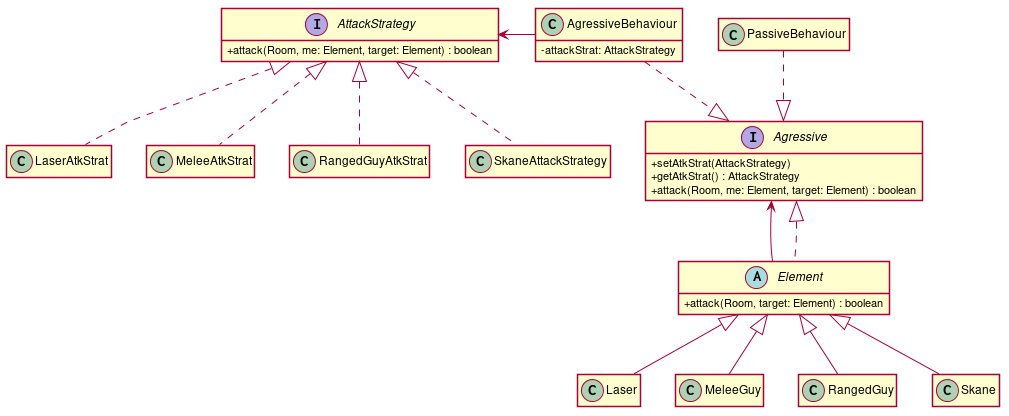
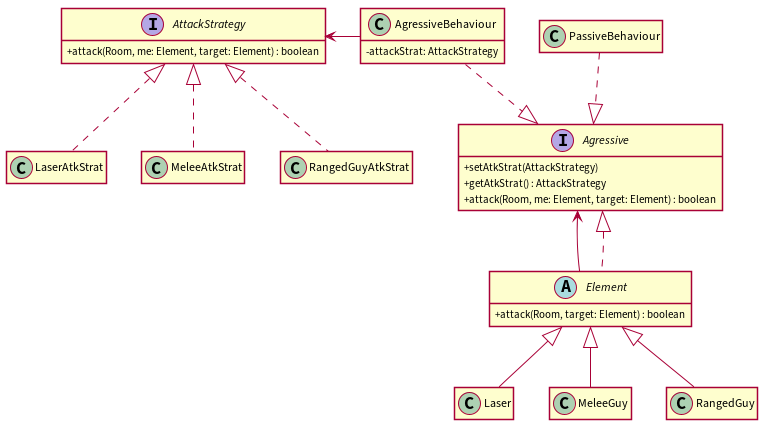
Fixed typos and improved some language on the report.

diff --git a/docs/README.md b/docs/README.md
@@ -526,7 +526,6 @@ project files:
 - [LaserAtkStrat](/src/main/java/org/g73/skanedweller/controller/attack_strategy/LaserAtkStrat.java)
 - [MeleeAtkStrat](/src/main/java/org/g73/skanedweller/controller/attack_strategy/MeleeAtkStrat.java)
 - [RangedGuyAtkStrat](/src/main/java/org/g73/skanedweller/controller/attack_strategy/RangedGuyAtkStrat.java)
-- [SkaneAttackStrategy](/src/main/java/org/g73/skanedweller/controller/attack_strategy/SkaneAttackStrategy.java)
 
 - [Agressive](/src/main/java/org/g73/skanedweller/model/element/element_behaviours/Agressive.java)
 - [AgressiveBehaviour](/src/main/java/org/g73/skanedweller/model/element/element_behaviours/AgressiveBehaviour.java)
@@ -542,9 +541,15 @@ project files:
 
 Implementing this pattern made it possible to have ranged attacks in our game
 and helped us separate the responsibilities of attacking and colliding.  
-The only downside of our implementation is that instantiating an object can
-be a bit more cumbersome, since we need to give it an attack strategy and
-a range.
+There are downsides though. This implementation makes the instantiation of
+aggressive elements be a bit more cumbersome, since we need to give it them
+an attack strategy and a range value. The other downside is related to the
+**Skane** and the way it attacks enemies. The **Skane** only attacks enemies
+that it collides with, so its attacks are tied to its collisions. We could
+make it so the **Skane** attempts to attack every enemy in the Room each frame,
+using its attack strategy but that would be inefficient, so the **Skane** attacks
+using its collision strategy (in contrast to all the other game elements capable
+of aggression).
 
 ### Creating the game's elements
 
@@ -561,66 +566,64 @@ this class became a _bloater_ and was hard to maintain.
 #### The pattern
 
 The pattern used as a solution was the **Creator pattern**. This way we could
-seperate all of the _RoomCreator_'s responsibilities into a small number of
-different classes.
+separate all the _RoomCreator's_ responsibilities into a few different classes.
 
 #### Implementation
 
-We firstly made a new creator interface. Afterwards, we seperated all of the methods
-in the _RoomCreator_ class that instantiated new game objects into new [classes](/src/main/java/org/g73/skanedweller/controller/creator)
-that implemented the recently created interface. Lastly, we refactored the _RoomCreator_
-class, by making use of the new _Creator_ classes.
-Later into development, when we implemented the _Spawner_ class, we also creators
-for it.
+We firstly made a new creator interface. Afterwards, we separated all the methods
+in the _RoomCreator_ class that instantiated new game objects into new
+[classes](/src/main/java/org/g73/skanedweller/controller/creator) that implemented
+the recently created interface. Lastly, we 'refactored' the _RoomCreator_
+class, by making use of the new _Creator_ classes.  
+Later into development, when we implemented the _Spawner_ class, which also has
+creators for it.
 
 ![Creation pattern UML class diagram](/docs/uml/creator.png)
 
 #### Consequences
 
-This approach allows the _RoomCreator_ to not be conscious of how many hp, range,
-attack, etc ...the game objects need to have. This is specified by the creator that
-we choose to use.  
-This solution also supports the Open/Closed principle. In spite of not needing
-different types of creators for the same enemy type, we could've easily add more.
+This approach allows the _RoomCreator_ to act indifferently of how much hp, range,
+attack, (etc...) the game objects need to have. These are specified by the creator
+that we choose to use.  
+This solution also respects the **Open/Closed principle**: in spite of not needing
+different types of creators for the same enemy type, we could've easily added more.
 For instance, if we wanted to add a difficulty choice to the start of the game,
-we could develop several new creator classes, each according to a specific difficuly.
-Then we could use one of them in the start of the game, depending on the chosen difficuly
-mode. This could prove to be very useful later on.
+we could develop several new creator classes, each according to a specific difficulty
+level. This could prove useful in more advanced stages of development.
 
 ### Spawners observer pattern
 
 #### Problem in context
 
-When we thought of including _Spawners_ to the game, one of the main features that
-we had in mind was to limit the maximum number of enemies inside a _Room_.
-In our [initial implementation](https://github.com/FEUP-LPOO/lpoo-2020-g73/blob/62b365ea1f1faf58f1bf4184c44a5ad4597c63c0/src/main/java/org/g73/skanedweller/controller/Spawner.java#L24-L37)
-however, each spawner could create a maximum number of elements, which wasn't as
-intended.
+When we thought of adding _Spawners_ to the game, one of the main features that
+we had in mind was limiting the maximum number of entities, of each kind,
+inside a _Room_. However, in our [initial implementation](https://github.com/FEUP-LPOO/lpoo-2020-g73/blob/62b365ea1f1faf58f1bf4184c44a5ad4597c63c0/src/main/java/org/g73/skanedweller/controller/Spawner.java#L24-L37),
+each spawner could only create a maximum number of elements, which wasn't
+the intended functionality.
 
 #### The pattern
 
-In order to solve this, we used the observer pattern. When an element is
-added or removed to a room, we notify the spawners listening to that room.
+In order to solve this, we used the **Observer pattern**. When an element is
+added to or removed from a room, we notify the _spawners_ listening to that room.
 
 #### Implementation
 
 The following changes were made to make use of the pattern:
 
-- [Spawner](https://github.com/FEUP-LPOO/lpoo-2020-g73/blob/1a1caa7cbf166531ffaa90716aa5510f66e029cb/src/main/java/org/g73/skanedweller/controller/Spawner.java#L39-L48) - 
+- [Spawner](https://github.com/FEUP-LPOO/lpoo-2020-g73/blob/1a1caa7cbf166531ffaa90716aa5510f66e029cb/src/main/java/org/g73/skanedweller/controller/Spawner.java#L39-L48) -
   Made the _Spawner_ class implement the _Observer<Room>_ interface.
   When a spawner is notified that a room has changed, it counts how many elements
   the room has.
 
-- [Room](https://github.com/FEUP-LPOO/lpoo-2020-g73/blob/1a1caa7cbf166531ffaa90716aa5510f66e029cb/src/main/java/org/g73/skanedweller/model/Room.java#L106-L128) - 
+- [Room](https://github.com/FEUP-LPOO/lpoo-2020-g73/blob/1a1caa7cbf166531ffaa90716aa5510f66e029cb/src/main/java/org/g73/skanedweller/model/Room.java#L106-L128) -
   Made the _Room_ class implement the _Observable<Room>_ interface.
   When an object is added or removed to a room, it notifies its observers.
 
-
 ![Spawners observer pattern UML class diagram](/docs/uml/spawner_observer.png)
-  
+
 #### Consequences
 
-This approach simplifies the code when in constrast with other alternatives.
+This approach simplifies the code when in contrast with other alternatives.
 The group chose this solution, despite its inefficiency, due to this fact.
 
 ## Known Code Smells and Refactoring Suggestions
